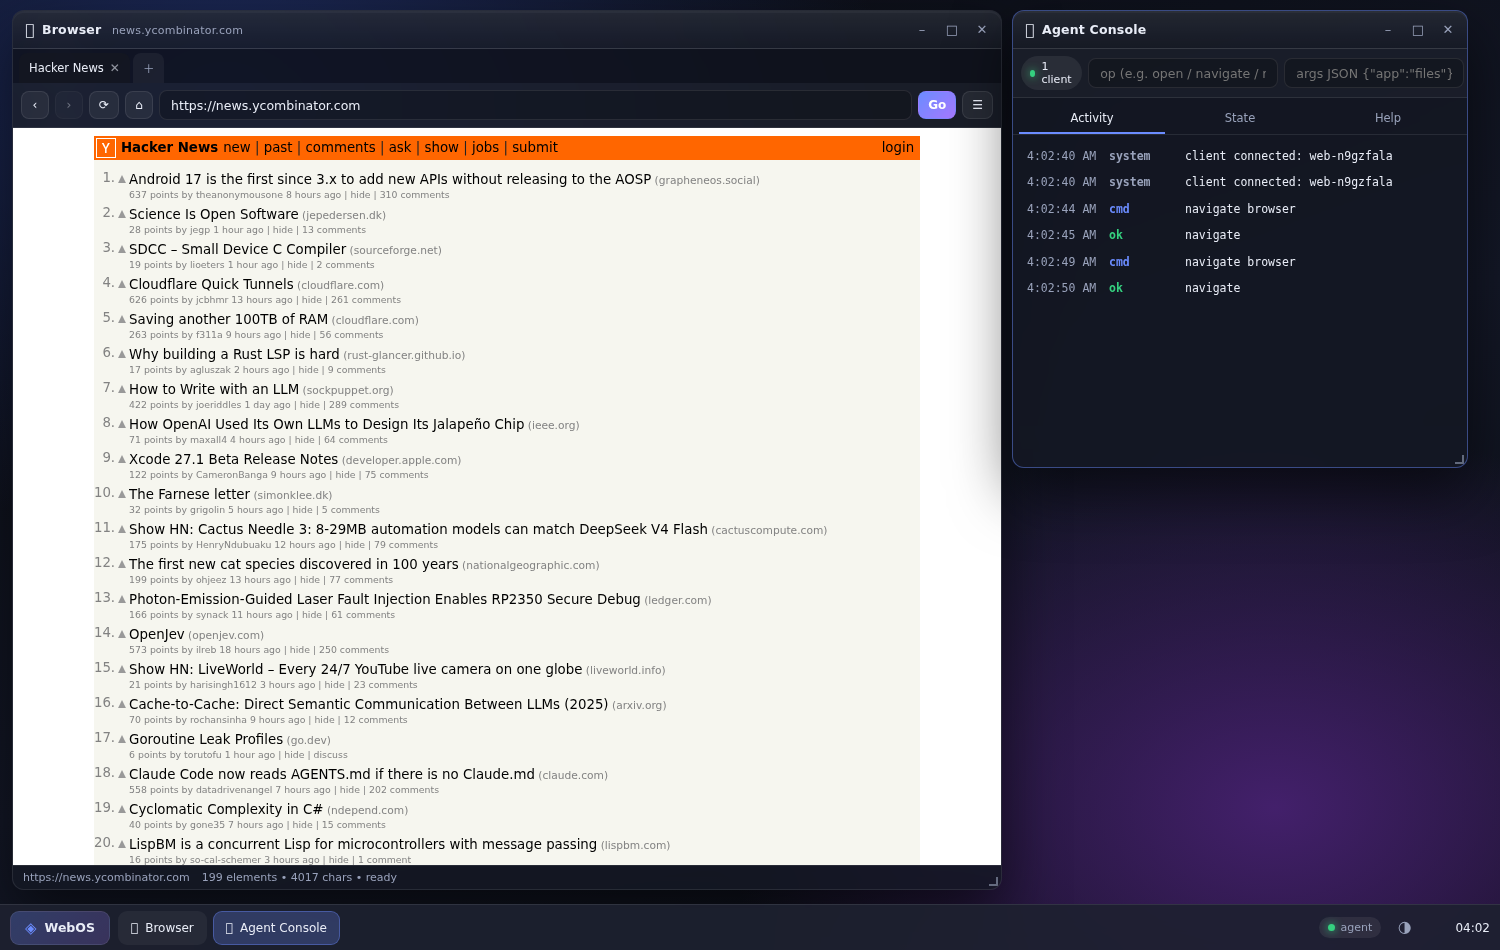
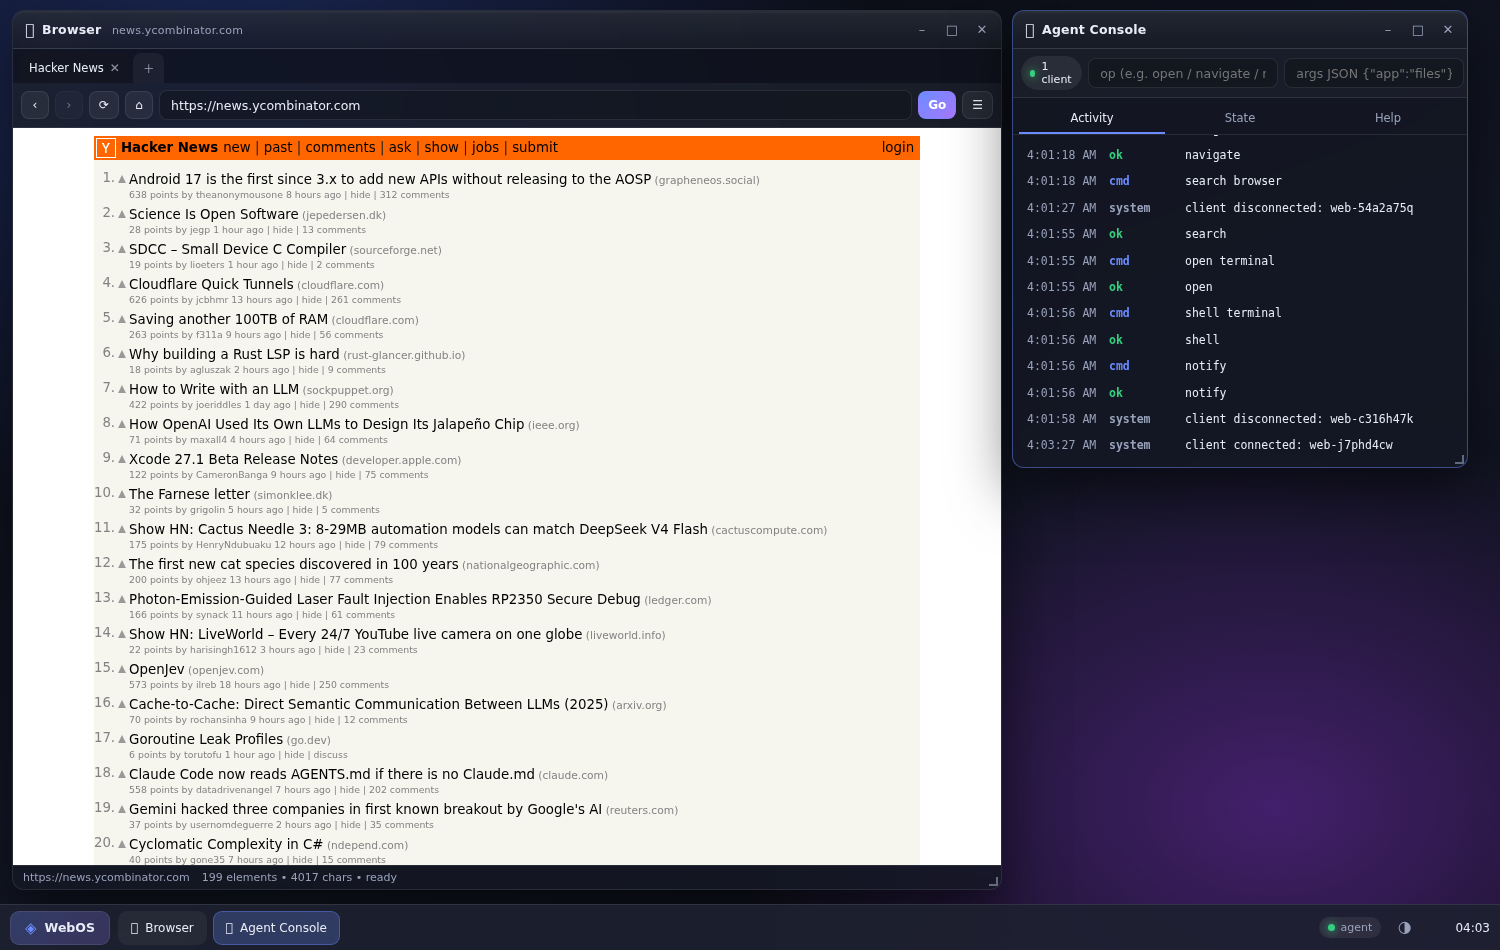
Harden local fetch shim for opaque-origin (sandboxed preview) contexts
Sandboxed iframes have an opaque origin, so new URL('/api/...', location.href)
throws and the local backend looked dead. The shim now also matches raw string
paths, so the standalone build works when embedded with sandbox="allow-scripts"
(workspace preview, <iframe srcdoc>, file:// parents).

Verified: (A) sandboxed iframe + src and (B) file:// parent + sandboxed iframe
both boot styled, run shell commands and accept agent commands with zero errors.

diff --git a/public/js/local.js b/public/js/local.js
@@ -468,17 +468,20 @@ Server mode (node server.js) me extra: read <url>, search <query>, agent <op>`;
   const origFetch = window.fetch ? window.fetch.bind(window) : null;
   window.fetch = function (input, init) {
     const url = typeof input === 'string' ? input : (input && input.url) || '';
+    // Sandboxed iframes (preview/embed) me document ka origin opaque hota hai —
+    // tab relative URL parse hi nahi hota, isliye string ko bhi check karte hain.
     let u = null;
-    try { u = new URL(url, location.href); } catch (e) {}
-    if (u && u.pathname.indexOf('/api/') === 0) {
-      const q = u.searchParams;
-      responseDelay(() => {});
-      return route(u.pathname, q, init || {});
+    try { u = new URL(url, location.href); } catch (e) { u = null; }
+    const raw = String(url);
+    const isApi = (u && u.pathname.indexOf('/api/') === 0) || /^\/api\//.test(raw) || /(^|\/)api\/[a-z]+\//i.test(raw);
+    if (isApi) {
+      const path = u ? u.pathname : (raw.split('?')[0] || '');
+      const params = u ? u.searchParams : new URLSearchParams(raw.split('?')[1] || '');
+      return route(path, params, init || {});
     }
     if (origFetch) return origFetch(input, init);
     return Promise.reject(new Error('offline (local mode)'));
   };
-  function responseDelay() { /* keeps signatures tidy */ }
 
   /* expose for the console + tests */
   window.WebOSLocal = {

diff --git a/public/webos-standalone.html b/public/webos-standalone.html
@@ -844,17 +844,20 @@ Server mode (node server.js) me extra: read <url>, search <query>, agent <op>`;
   const origFetch = window.fetch ? window.fetch.bind(window) : null;
   window.fetch = function (input, init) {
     const url = typeof input === 'string' ? input : (input && input.url) || '';
+    // Sandboxed iframes (preview/embed) me document ka origin opaque hota hai —
+    // tab relative URL parse hi nahi hota, isliye string ko bhi check karte hain.
     let u = null;
-    try { u = new URL(url, location.href); } catch (e) {}
-    if (u && u.pathname.indexOf('/api/') === 0) {
-      const q = u.searchParams;
-      responseDelay(() => {});
-      return route(u.pathname, q, init || {});
+    try { u = new URL(url, location.href); } catch (e) { u = null; }
+    const raw = String(url);
+    const isApi = (u && u.pathname.indexOf('/api/') === 0) || /^\/api\//.test(raw) || /(^|\/)api\/[a-z]+\//i.test(raw);
+    if (isApi) {
+      const path = u ? u.pathname : (raw.split('?')[0] || '');
+      const params = u ? u.searchParams : new URLSearchParams(raw.split('?')[1] || '');
+      return route(path, params, init || {});
     }
     if (origFetch) return origFetch(input, init);
     return Promise.reject(new Error('offline (local mode)'));
   };
-  function responseDelay() { /* keeps signatures tidy */ }
 
   /* expose for the console + tests */
   window.WebOSLocal = {

diff --git a/webos-standalone.html b/webos-standalone.html
@@ -844,17 +844,20 @@ Server mode (node server.js) me extra: read <url>, search <query>, agent <op>`;
   const origFetch = window.fetch ? window.fetch.bind(window) : null;
   window.fetch = function (input, init) {
     const url = typeof input === 'string' ? input : (input && input.url) || '';
+    // Sandboxed iframes (preview/embed) me document ka origin opaque hota hai —
+    // tab relative URL parse hi nahi hota, isliye string ko bhi check karte hain.
     let u = null;
-    try { u = new URL(url, location.href); } catch (e) {}
-    if (u && u.pathname.indexOf('/api/') === 0) {
-      const q = u.searchParams;
-      responseDelay(() => {});
-      return route(u.pathname, q, init || {});
+    try { u = new URL(url, location.href); } catch (e) { u = null; }
+    const raw = String(url);
+    const isApi = (u && u.pathname.indexOf('/api/') === 0) || /^\/api\//.test(raw) || /(^|\/)api\/[a-z]+\//i.test(raw);
+    if (isApi) {
+      const path = u ? u.pathname : (raw.split('?')[0] || '');
+      const params = u ? u.searchParams : new URLSearchParams(raw.split('?')[1] || '');
+      return route(path, params, init || {});
     }
     if (origFetch) return origFetch(input, init);
     return Promise.reject(new Error('offline (local mode)'));
   };
-  function responseDelay() { /* keeps signatures tidy */ }
 
   /* expose for the console + tests */
   window.WebOSLocal = {
